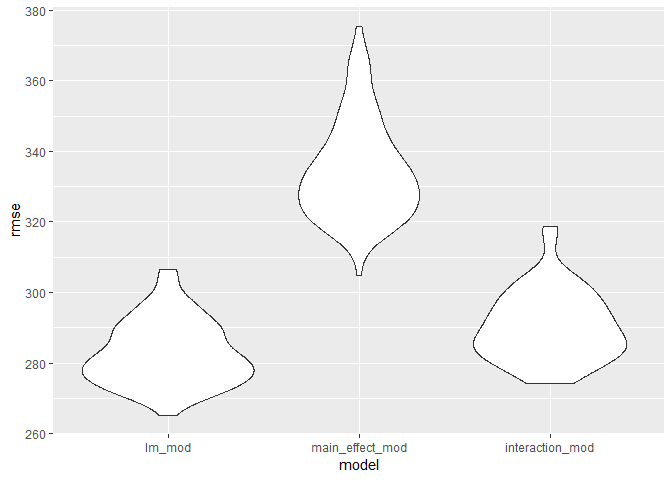
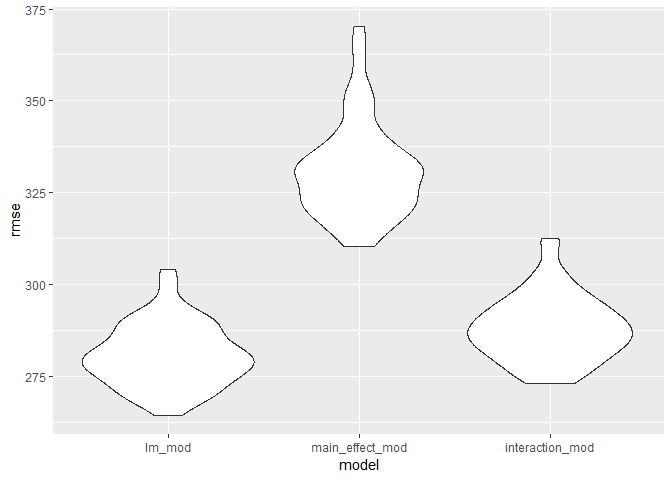
Add interpretations

diff --git a/p8105_hw6_rh2916.md b/p8105_hw6_rh2916.md
@@ -3,7 +3,9 @@ p8105\_hw6\_rh2916
 Rui Huang
 November 16, 2018
 
-### Problem 1
+## Problem 1
+
+### Tidy data for analysis
 
 ``` r
 df_homicide = read.csv("./data/homicide-data.csv") %>% 
@@ -16,13 +18,14 @@ df_homicide = read.csv("./data/homicide-data.csv") %>%
          victim_age = as.numeric(victim_age))
 ```
 
-For the city of Baltimore, MD, use the glm function to fit a logistic
-regression with resolved vs unresolved as the outcome and victim age,
-sex and race (as just defined) as predictors. Save the output of glm as
-an R object; apply the broom::tidy to this object; and obtain the
-estimate and confidence interval of the adjusted odds ratio for solving
-homicides comparing non-white victims to white victims keeping all other
-variables fixed.
+After cleaning and tidying, the dataset contains 14 variables and 48507
+observations.
+
+### Fit regression for Baltimore,MD
+
+The logistic regression is fitted by glm with resolved vs unresolved as
+the outcome and victim victim\_age, victim\_sex and victim\_race as
+predictors.
 
 ``` r
 Baltimore_homicide =
@@ -50,11 +53,13 @@ glm_sloving_status %>%
 | victim\_sexMale        | \-0.885 | 0.413 |     0.316 |     0.539 |   0.000 |
 | victim\_racenon\_white | \-0.793 | 0.453 |     0.322 |     0.637 |   0.000 |
 
-Now run glm for each of the cities in your dataset, and extract the
-adjusted odds ratio (and CI) for solving homicides comparing non-white
-victims to white victims. Do this within a “tidy” pipeline, making use
-of purrr::map, list columns, and unnest as necessary to create a
-dataframe with estimated ORs and CIs for each city.
+From the regression, we can find that homicides of non-whites are much
+less likely to be solved than white victims. The adjusted odds ratio is
+0.453, 95% CI is (0.322, 0.637).
+
+### Run glm for each city
+
+Write function and loop it by may\_df
 
 ``` r
 func_solving = function(x){
@@ -132,8 +137,7 @@ knitr::kable(glm_city)
 | Tulsa,OK          | 0.5857297 | 0.4021869 | 0.8530344 |
 | Washington,DC     | 0.5268148 | 0.2666526 | 1.0408066 |
 
-Create a plot that shows the estimated ORs and CIs for each city.
-Organize cities according to estimated OR, and comment on the plot.
+### Create a plot shows the ORs and CIs
 
 ``` r
 ggplot(glm_city, aes(x=reorder(term, -OR),y=OR))+
@@ -163,9 +167,16 @@ ggplot(glm_city, aes(x=reorder(term, -OR),y=OR))+
     ## attr(,"class")
     ## [1] "labels"
 
-### Problem 2
+The graph is Adjusted Odds Ratio with 95% CIs for each city in
+decreasing OR. From the graph, we can find that Boston,MA has the least
+OR while the Tampa,FL has the highest one. Also, except for Tampa,FL,
+Durham,NC and Birmingham,AL, all the restcities have OR less than 1,
+which shows higher estimate of solving rate of white people than
+non-white people.
 
-Load and clean the data for regression analysis
+## Problem 2
+
+### Load and clean the data for regression analysis
 
 ``` r
 df_birthweight_raw = read.csv("./data/birthweight.csv")
@@ -185,7 +196,7 @@ skimr::skim(df_birthweight)
     ##  n obs: 4342 
     ##  n variables: 20 
     ## 
-    ## -- Variable type:factor -------------------------------------------------------------------------------
+    ## -- Variable type:factor --------------------------------------------------------
     ##  variable missing complete    n n_unique                      top_counts
     ##   babysex       0     4342 4342        2         1: 2230, 2: 2112, NA: 0
     ##     frace       0     4342 4342        5 1: 2123, 2: 1911, 4: 248, 3: 46
@@ -197,7 +208,7 @@ skimr::skim(df_birthweight)
     ##    FALSE
     ##    FALSE
     ## 
-    ## -- Variable type:integer ------------------------------------------------------------------------------
+    ## -- Variable type:integer -------------------------------------------------------
     ##  variable missing complete    n      mean     sd  p0  p25    p50  p75 p100
     ##     bhead       0     4342 4342   33.65     1.62  21   33   34     35   41
     ##   blength       0     4342 4342   49.75     2.72  20   48   50     51   63
@@ -227,7 +238,7 @@ skimr::skim(df_birthweight)
     ##  <U+2581><U+2587><U+2586><U+2581><U+2581><U+2581><U+2581><U+2581>
     ##  <U+2581><U+2581><U+2581><U+2587><U+2587><U+2581><U+2581><U+2581>
     ## 
-    ## -- Variable type:numeric ------------------------------------------------------------------------------
+    ## -- Variable type:numeric -------------------------------------------------------
     ##  variable missing complete    n  mean   sd    p0   p25   p50   p75 p100
     ##   gaweeks       0     4342 4342 39.43 3.15 17.7  38.3  39.9  41.1  51.3
     ##     ppbmi       0     4342 4342 21.57 3.18 13.07 19.53 21.03 22.91 46.1
@@ -237,7 +248,7 @@ skimr::skim(df_birthweight)
     ##  <U+2581><U+2587><U+2585><U+2581><U+2581><U+2581><U+2581><U+2581>
     ##  <U+2587><U+2581><U+2581><U+2581><U+2581><U+2581><U+2581><U+2581>
 
-Propose a regression model for birthweight. Use backward
+### Propose a regression model for birthweight.
 
 ``` r
 full_model = lm(bwt ~ ., data = df_birthweight)
@@ -323,8 +334,13 @@ summary(step_model)
     ## Multiple R-squared:  0.7181, Adjusted R-squared:  0.7173 
     ## F-statistic: 848.1 on 13 and 4328 DF,  p-value: < 2.2e-16
 
-Plot the final model with predictions and
-residuals
+At first, the model all the possible factors and built model by stepwise
+selection. From the summary above, we can find that bhead, babysex,
+blength, delwt, gaweeks, wtgain and smoken are significant, so keep
+these variables as predictors in the final
+model.
+
+### Plot the final model with predictions and residuals
 
 ``` r
 lm_model = lm(bwt ~ bhead + babysex + blength + delwt + gaweeks + wtgain + smoken, data = df_birthweight)
@@ -342,16 +358,23 @@ df_birthweight %>%
 
 ![](p8105_hw6_rh2916_files/figure-gfm/unnamed-chunk-7-1.png)<!-- -->
 
-Making two more models, main\_effect\_model contains length at birth and
-gestational age as predictors, interaction\_model contains head
-circumference, length, sex, and all interactions as predictors
+The plot is Residuals vs fitted values of birthweight, from which we can
+find that most of the residuals are around 0, but there are some
+abnormal values over 1000, which indicates there may be some outliers in
+the lower range of birthweight.
+
+### Making two more models
+
+main\_effect\_model contains length at birth and gestational age as
+predictors, interaction\_model contains head circumference, length, sex,
+and all interactions as predictors
 
 ``` r
 main_effect_model = lm(bwt ~ blength + gaweeks, data = df_birthweight)
 interaction_model = lm(bwt ~ bhead + blength + babysex + bhead * blength * babysex, data = df_birthweight)
 ```
 
-Compare my model to two others by Cross-validation
+### Compare my model to two others by Cross-validation
 
 ``` r
 cv_df = 
@@ -368,7 +391,7 @@ cv_df = cv_df %>%
          rmse_interaction_mod = map2_dbl(interaction_mod,test, ~rmse(model = .x, data=.y))) 
 ```
 
-plot the RMSEs
+### Make plot of RMSEs
 
 ``` r
 cv_df %>% 
@@ -380,3 +403,7 @@ cv_df %>%
 ```
 
 ![](p8105_hw6_rh2916_files/figure-gfm/unnamed-chunk-10-1.png)<!-- -->
+
+From the plot, we can find that compared to The main\_effect\_model, the
+lm\_model and interaction\_model have lower rmse and lm\_model is the
+best.
